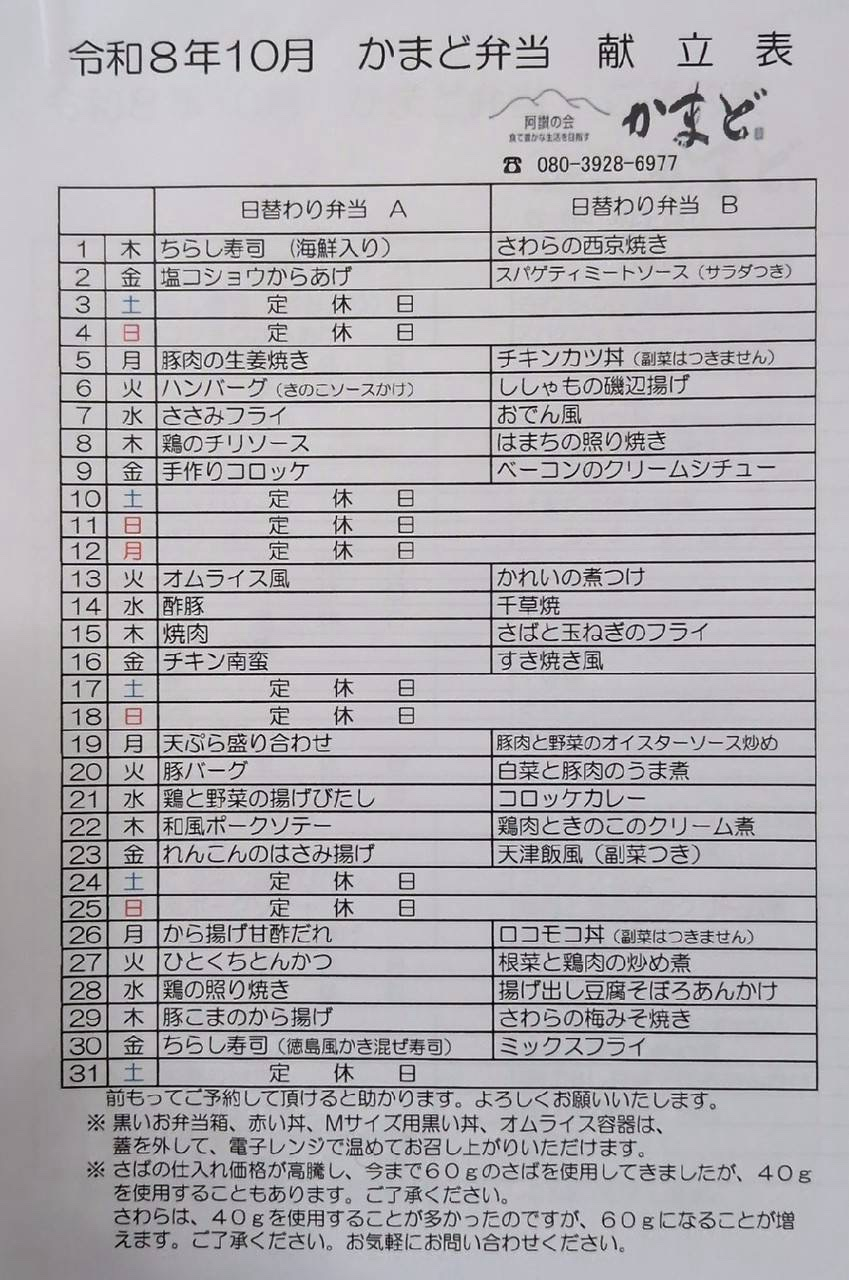
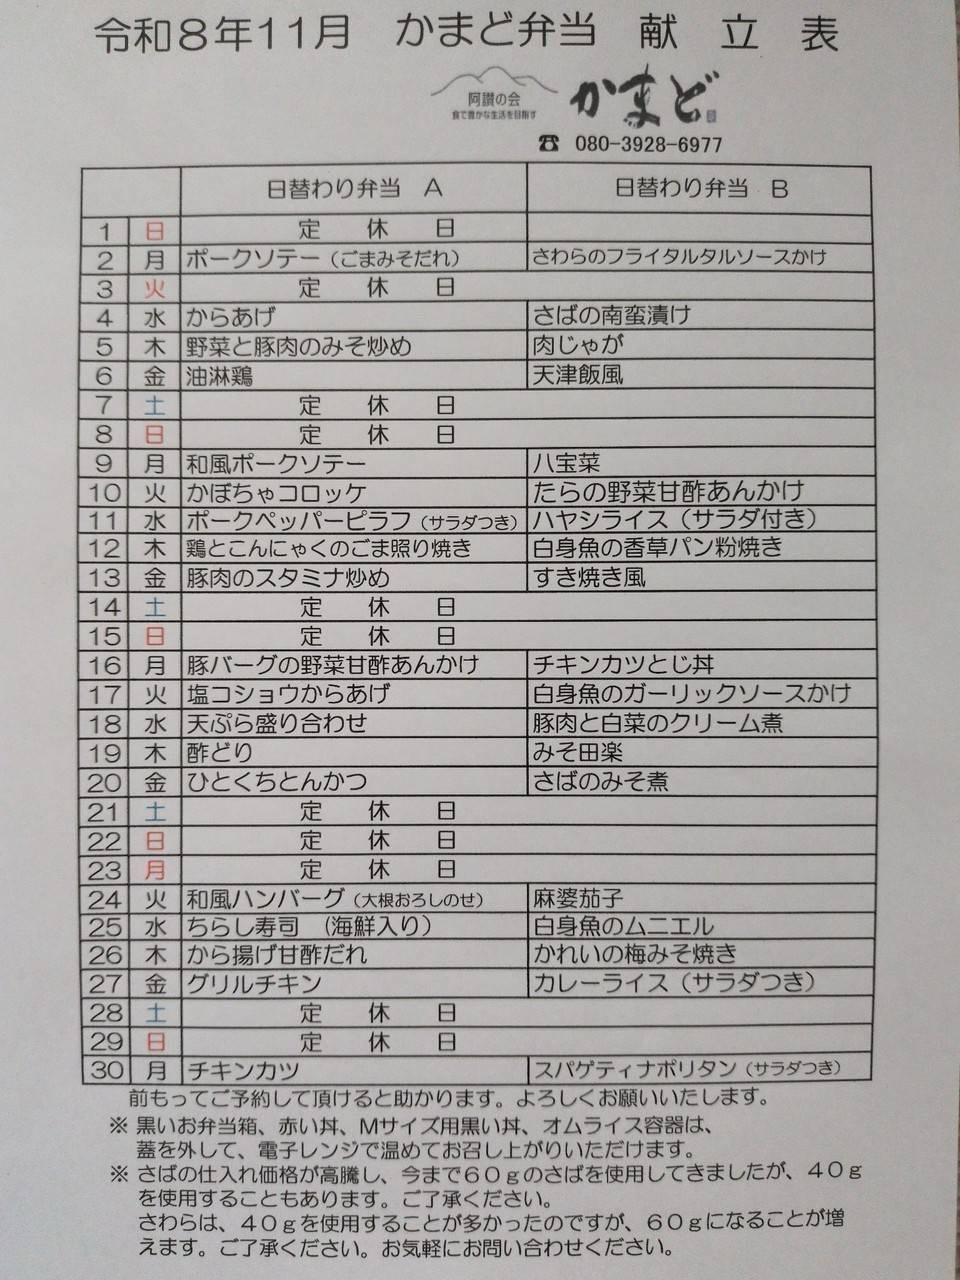
chore(menu): update monthly menu to november 2026
Replace img/今月の献立.JPG with the November 2026 menu and move
the October menu to img/kondate_old/今月の献立(202610).JPG.
Update the image size attributes to match the new photo.

img/今月の献立.JPG を令和8年11月の献立表に差し替え、10月分を
img/kondate_old/今月の献立(202610).JPG に移動。画像サイズの
指定を新しい写真に合わせて更新。

diff --git a/index.html b/index.html
@@ -404,7 +404,7 @@
       <div class="menu-paper">
         <span class="tape" aria-hidden="true"></span>
         <!-- 献立表は img/今月の献立.JPG を差し替えるだけで更新されます（ファイル名はそのまま） -->
-        <a href="img/今月の献立.JPG" target="_blank" rel="noopener" data-kondate><img src="img/今月の献立.JPG" alt="今月の献立表。日替わり弁当A・Bの毎日のおかず" width="849" height="1280" loading="lazy" decoding="async" data-kondate></a>
+        <a href="img/今月の献立.JPG" target="_blank" rel="noopener" data-kondate><img src="img/今月の献立.JPG" alt="今月の献立表。日替わり弁当A・Bの毎日のおかず" width="960" height="1280" loading="lazy" decoding="async" data-kondate></a>
       </div>
       <div class="menu-text">
         <div class="sec-head left"><span class="sub">MENU</span><h2>今月の献立</h2></div>
